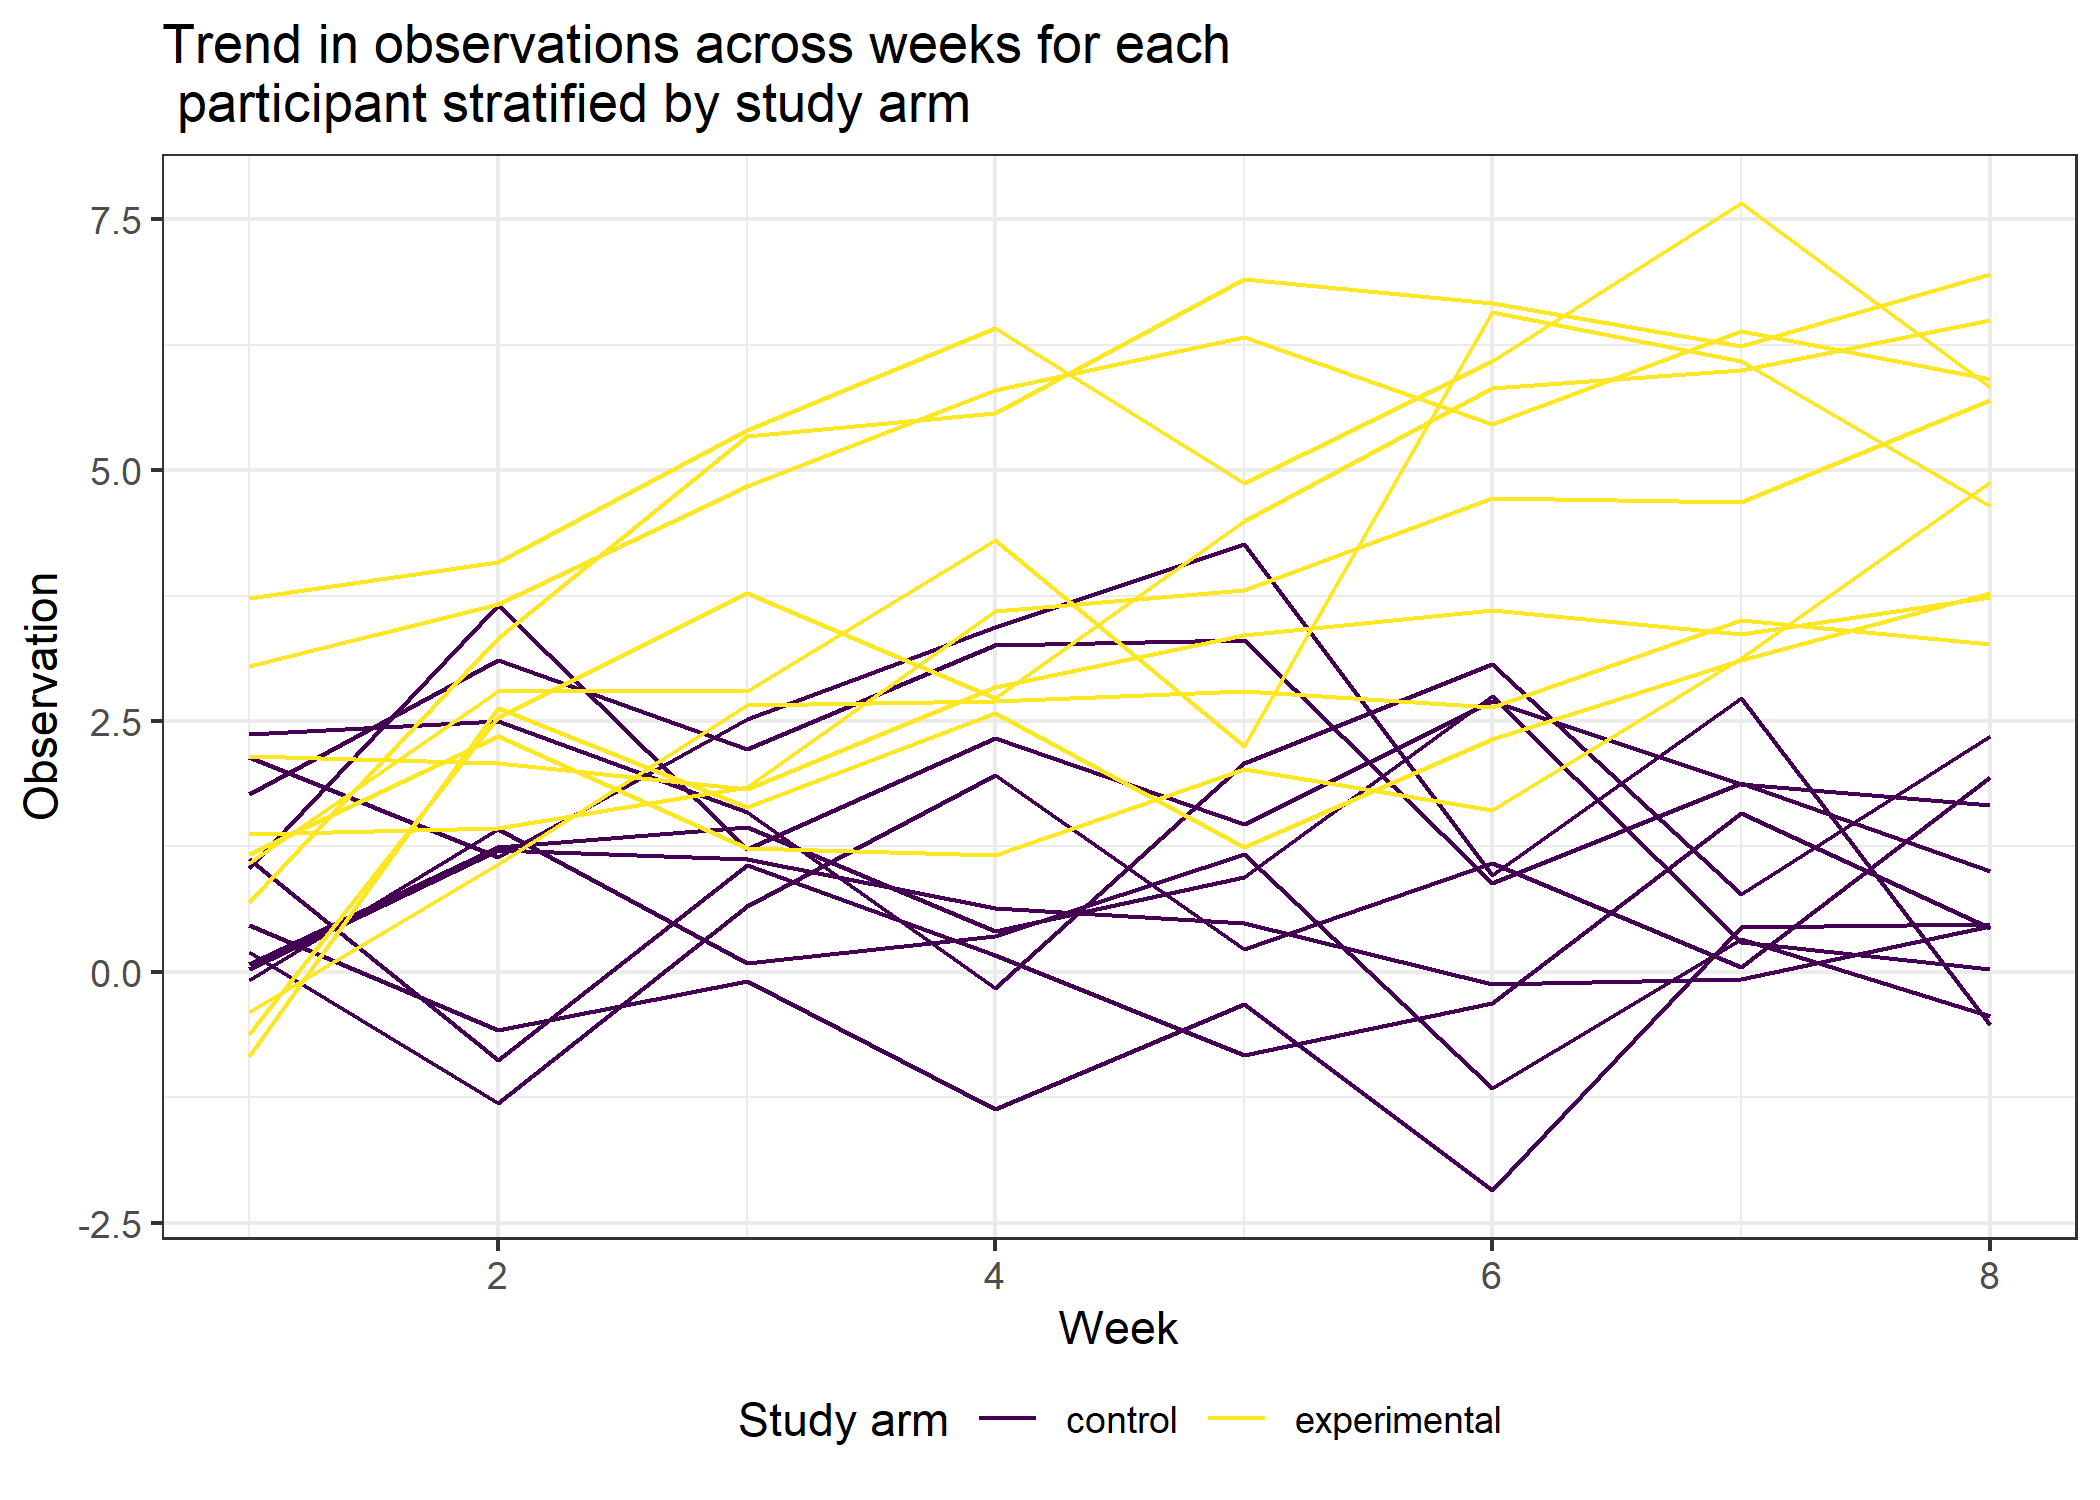
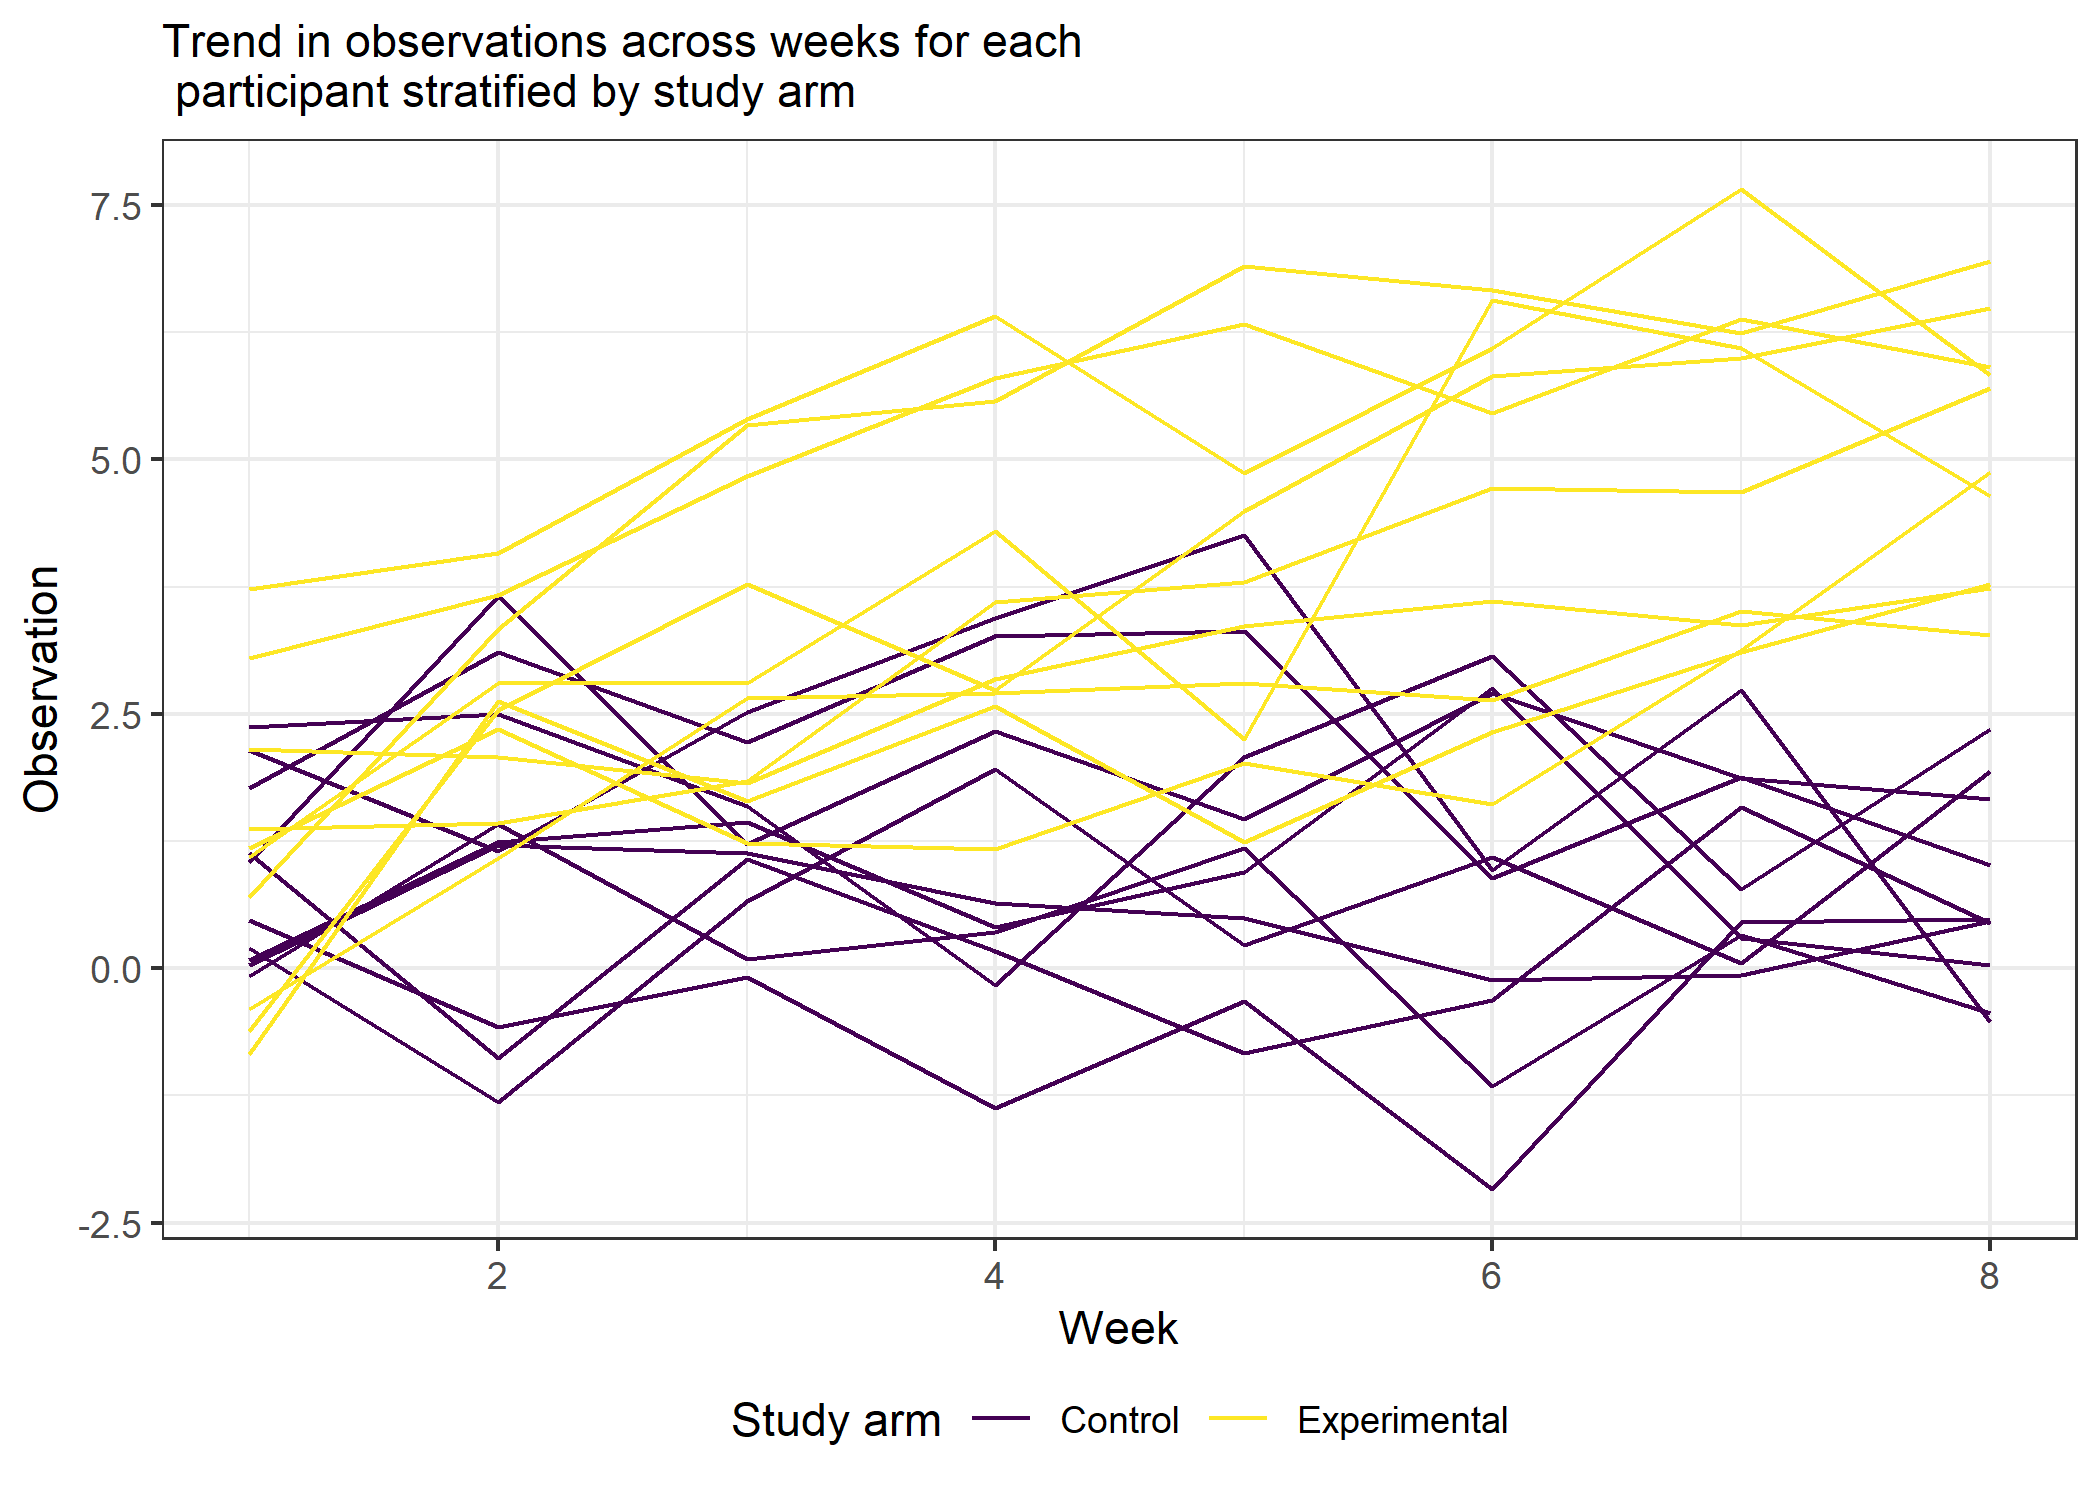
homicide bar chart

diff --git a/p8105_hw5_ntw2117.md b/p8105_hw5_ntw2117.md
@@ -1,6 +1,8 @@
 Data Science Homework 5
 ================
 
+### Problem 1
+
 ``` r
 file_names <- list.files("./data/", full.names = TRUE)
 
@@ -10,11 +12,11 @@ df <- file_names %>%
 for (i in 1:20) {
   if (i < 11) {
     df[[i]] <- df[[i]] %>% 
-    mutate(arm = "control", 
+    mutate(arm = "Control", 
            study_id = i)
   } else if (i > 10) {
     df[[i]] <- df[[i]] %>% 
-      mutate(arm = "experimental", 
+      mutate(arm = "Experimental", 
              study_id = i - 10)
   }
 }
@@ -42,7 +44,41 @@ df %>%
   theme(legend.position = "bottom", 
         legend.direction = "horizontal", 
         legend.box.spacing = unit(0.05, "cm"),
-        plot.title = element_text(size = 13))
+        plot.title = element_text(size = 11))
 ```
 
 <img src="p8105_hw5_ntw2117_files/figure-markdown_github/spaghetti plot-1.png" width="75%" style="display: block; margin: auto;" />
+
+### Problem 2
+
+``` r
+murder <- 
+  read_csv("https://raw.githubusercontent.com/washingtonpost/data-homicides/master/homicide-data.csv") %>% 
+  janitor::clean_names()
+```
+
+``` r
+murder <- murder %>% 
+  unite("city_state", c("city", "state"), sep = ", ")
+
+unsolved <- murder %>% 
+  group_by(city_state) %>% 
+  filter(disposition %in% c("Closed without arrest", 
+                            "Open/No arrest")) %>% 
+  summarize(total_unsolved = n()) 
+```
+
+``` r
+unsolved %>% 
+  mutate(city_state = fct_reorder(city_state, total_unsolved)) %>% 
+  ggplot(aes(x = city_state, y = total_unsolved)) + 
+  geom_bar(stat = "identity", fill = "#A35E60") + 
+  coord_flip() + 
+  labs(title = "Number of unsolved homicides in 50 major US cities", 
+       y = "Number of unsolved homicides", 
+       x = "City") + 
+  theme_bw() + 
+  theme(plot.title = element_text(size = 12))
+```
+
+<img src="p8105_hw5_ntw2117_files/figure-markdown_github/unnamed-chunk-2-1.png" width="80%" style="display: block; margin: auto;" />
